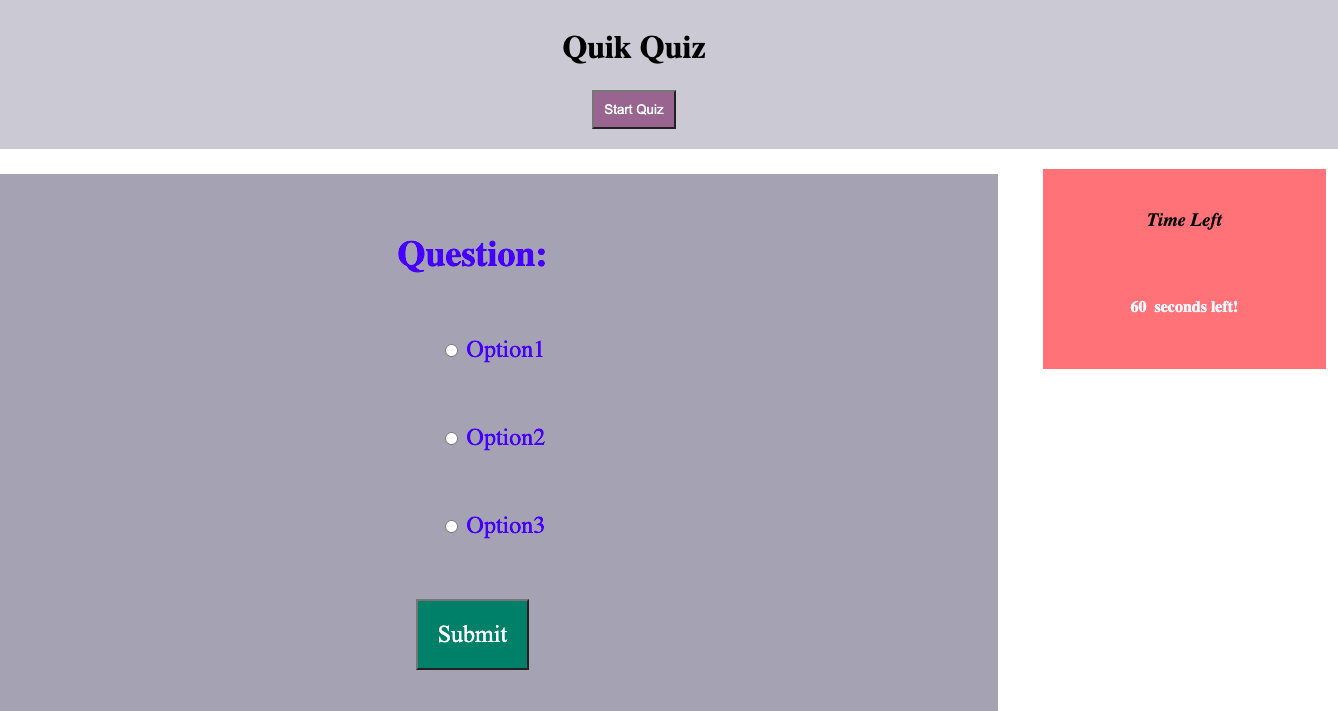
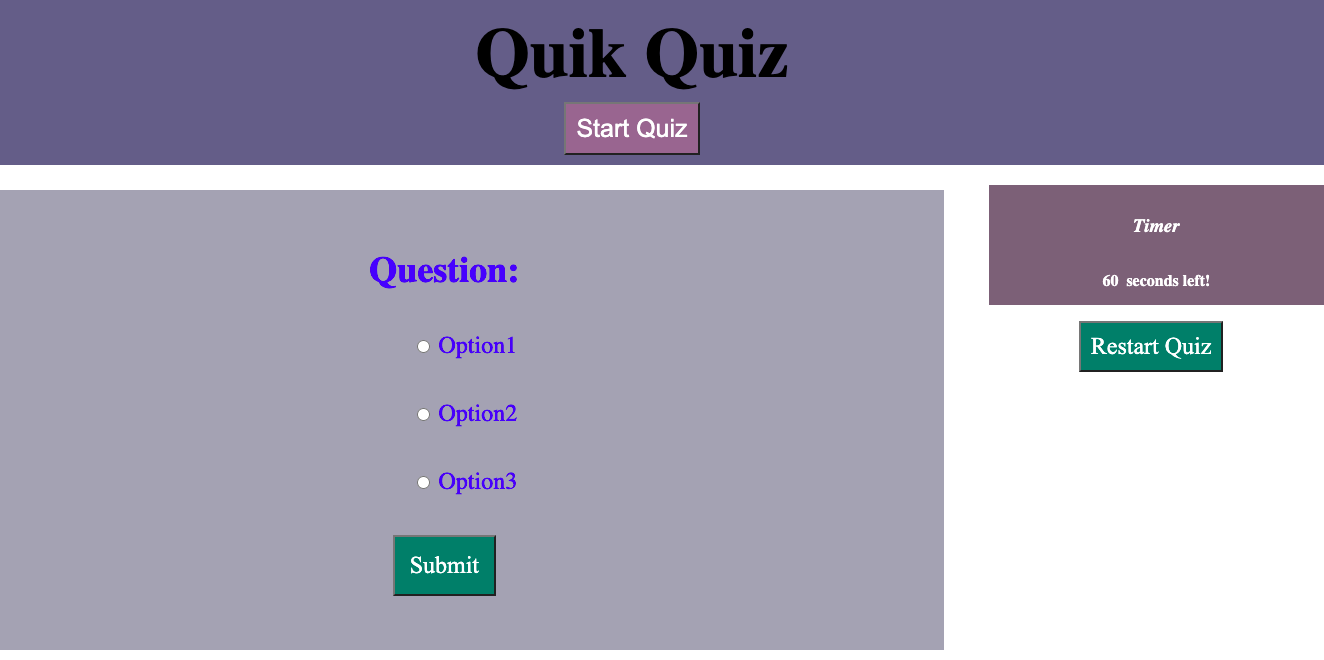
update performance

diff --git a/script.js b/script.js
@@ -1,3 +1,17 @@
+let quiz = document.getElementById("quiz");
+let answerEls = document.querySelectorAll(".answer");
+let questionEl = document.querySelector(".question");
+let a_text = document.getElementById("a_text");
+let b_text = document.getElementById("b_text");
+let c_text = document.getElementById("c_text");
+let submitBtn = document.getElementById("submit");
+var startBtn = document.getElementById("Start");
+var timePara = document.querySelector("#timePara");
+var myScoreBox = document.querySelector(".scoreBox");
+var myFinalBox = document.querySelector("#finalBox");
+
+let restartBtn = document.getElementById("restart");
+
 var questionArray = [
   {
     questionTitle: "What is JavaScript",
@@ -29,17 +43,6 @@ var questionArray = [
   },
 ];
 
-let quiz = document.getElementById("quiz");
-let answerEls = document.querySelectorAll(".answer");
-let questionEl = document.querySelector(".question");
-let a_text = document.getElementById("a_text");
-let b_text = document.getElementById("b_text");
-let c_text = document.getElementById("c_text");
-let submitBtn = document.getElementById("submit");
-var startBtn = document.getElementById("Start");
-var timePara = document.querySelector("#timePara");
-var myScoreBox = document.querySelector(".scoreBox");
-var myFinalBox = document.querySelector("#finalBox");
 var isPlaying = false;
 
 let currentQuiz = 0;
@@ -124,22 +127,25 @@ submitBtn.addEventListener("click", () => {
 });
 
 function gameOver() {
-  quiz.innerHTML = `
-  <h2> You answered ${score}/${questionArray.length} question correctly </h2>
-  <button onclick="location.reload()"> Restart Quiz</button>
-  `;
+   quiz.innerHTML = `
+   <h2> You answered ${score}/${questionArray.length} questions correctly. You got ${score} out of 100.</h2>`;
+  
   clearInterval(timer);
   myScoreBox.style.display = "block";
 
   myFinalBox.style.display = "block";
 }
 
+restartBtn.addEventListener("click", () => {
+  location.reload();
+});
+
 function storeData() {
   //build array
   //display  on the page
   //grabbing array from the local  storage
   var myScore = JSON.parse(localStorage.getItem("highScore")) || [];
-  
+  localStorage.removeItem(myScore)
   var takeInit = document.querySelector("#myInput").value;
   console.log(myScore);
   var currentScore = `Initials: ${takeInit}, Score: ${score}`;

diff --git a/style.css b/style.css
@@ -1,24 +1,31 @@
 header {
-  background: rgb(202, 202, 211);
+  background: rgb(97, 97, 135);
   color: black;
   text-align: center;
   justify-content: space-between;
-  padding: 20px;
+  padding: 10px;
+  font-size: 35px;
 }
 main {
   display: flex;
+}
+
+.whiteText {
+  margin-top: 5px;
+  margin-bottom: 5px;
 }
 .darkViolet {
   padding: 10px;
   margin-top: 2px;
   background: rgb(144, 108, 144);
   color: white;
+  font-size: 25px;
 }
 .quiz-container {
   background-color: rgb(163, 163, 179);
   text-align: center;
   margin: 25px;
-  height: 500px;
+  height: 400px;
   justify-content: center;
   display: flex;
   width: 70%;
@@ -28,7 +35,7 @@ main {
 }
 ul li {
   list-style-type: none;
-  margin: 60px;
+  margin: 40px;
 }
 aside {
   background: #281b4c58;
@@ -48,12 +55,13 @@ aside {
 }
 
 #submit {
-  padding: 20px;
+  padding: 15px;
   font-family: "Times New Roman", Times, serif;
   font-size: x-large;
   background: rgb(32, 122, 103);
   color: white;
   align-items: flex-end;
+  margin-left: 00px;
 }
 aside #timePara {
   justify-content: center;
@@ -66,8 +74,9 @@ p {
   display: flex;
   align-items: center;
 }
-h3 {
-  margin-top: 40px;
+h3, h4 {
+  color: white;
+  margin-top: 30px;
   display: flex;
   justify-content: left;
 }
@@ -78,26 +87,48 @@ h3 {
   font-style: oblique;
 }
 
-.myFooter {
-  width: 20%;
-  height: 200px;
+ .aside {
+  width: 25%;
+  height: 120px;
   margin: 20px;
-  background: lightcoral;
+  background: rgb(119, 99, 119);
   justify-content: space-around;
   justify-items: center;
-}
+} 
+
 .timer {
-  padding: 2rem;
   font-weight: bold;
-  color: aliceblue;
+  color: white;
 }
+
+#restart {
+  margin-top: 15px;
+  padding: 10px;
+  font-family: "Times New Roman", Times, serif;
+  font-size: x-large;
+  background: rgb(32, 122, 103);
+  color: white;
+  align-items: flex-end;
+  margin-left: 90px;
+}
+
 .scoreBox {
-  margin-top: 20px;
+  margin-top: 40px;
   display: none;
 }
+
+.saveBtn {
+  font-family: "Times New Roman", Times, serif;
+  font-size: 20px;
+  background: gray;
+  color:purple;
+}
+
 #finalBox {
+  bottom: 15px;
   display: none;
-  background: rgb(53, 173, 101);
-  height: 200px;
+  background: rgb(83, 62, 91);
+  height: auto;
+  width: auto;
   margin: 20px;
 }

diff --git a/index.html b/index.html
@@ -34,24 +34,25 @@
           <button id="submit">Submit</button>
         </div>
       </div>
-      <div class="myFooter">
+      <div class="aside">
         <div class="myTimer">
-          <h3>Time Left</h3>
+          <h3>Timer</h3>
         </div>
         <div class="timer">
           <p><span id="timePara"> 60 </span>&nbsp; seconds left!</p>
-        </div>
+        </div>  
+        <button id="restart">Restart Quiz</button>
         <div class="scoreBox">
           <div>
-            <input type="text" id="myInput" placeholder="Enter Initail here"></input>
+            <input type="text" id="myInput" placeholder="Enter Initail Here"></input>
             <button onclick="storeData()" class="saveBtn col-md-1">Save Socre</button>
           </div>
         </div>
-      </div>
-      <div id="finalBox">
-        <h3 id="myInitiall">Initiall Name</h3>
-        <h4 id="finalScore">Your Score</h4>
-      </div>
+        <div id="finalBox">
+          <h3 id="myInitiall">Initiall Name</h3>
+          <h4 id="finalScore">Your Score</h4>
+        </div>
+      </div>  
     </main>
     <script src="script.js"></script>
   </body>

diff --git a/README.md b/README.md
@@ -4,12 +4,11 @@
 
 Create a quick quiz application with timer using HTML, CSS and JavaScript.
 
-## How to use the project
-### when i click the start button, a timer starts and a question is presented.
-### when a question is answered another question is presented.
-### when a question is answered incorrectly the time is subtracted from the clock.
-### WHEN all questions are answered or the timer reaches 0 then the game is over.
-### when the game is over, I can save my initials and my score.
+## How to use the application
+### when you click the start button, a timer starts and a question is presented.
+### when a question is answered and clicked the submit button, another question is presented.
+### WHEN all questions are answered or the timer goes off, the quiz is over.
+### when the quiz is over, you can save your initials and score.
 
 ## Live Link
 
